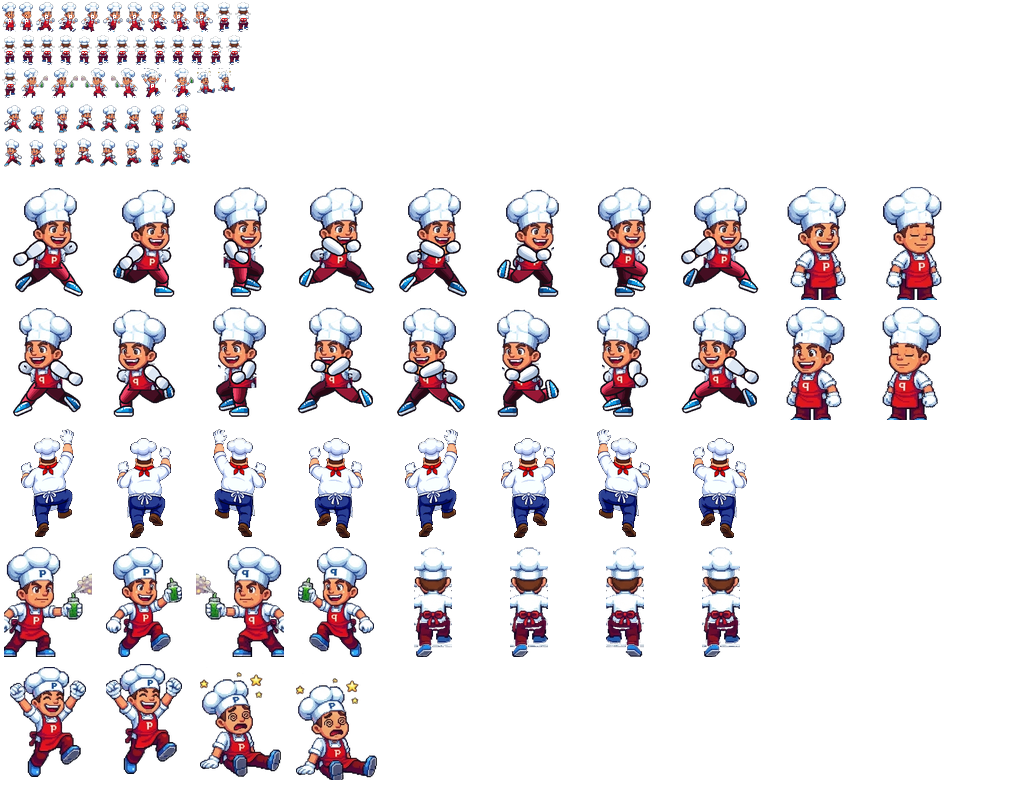
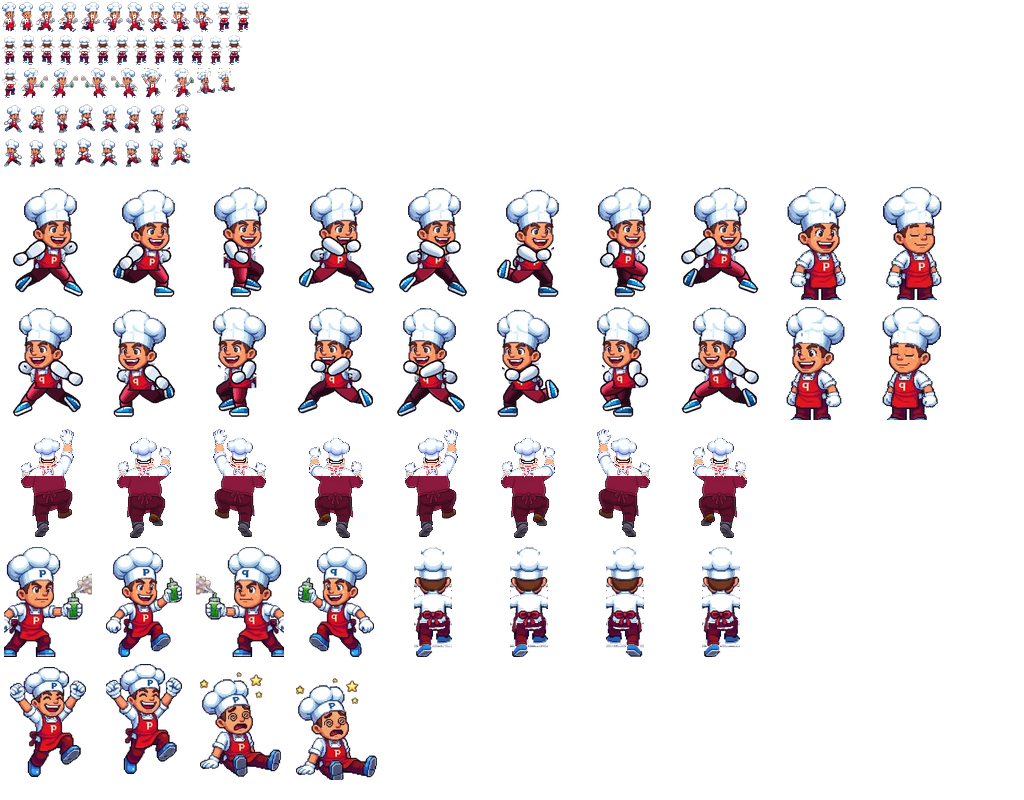
feat(chef): sincronizacion estetica y paleta canonica en sprites de escalada v109

diff --git a/js/sprites.js b/js/sprites.js
@@ -37,7 +37,7 @@ class SpriteManager {
 
   initAtlas() {
     this.atlasImg = new Image();
-    this.atlasImg.src = 'assets/chef_atlas.png?v=104';
+    this.atlasImg.src = 'assets/chef_atlas.png?v=109';
     this.atlasLoaded = false;
     this.atlasImg.onload = () => {
       this.atlasLoaded = true;
